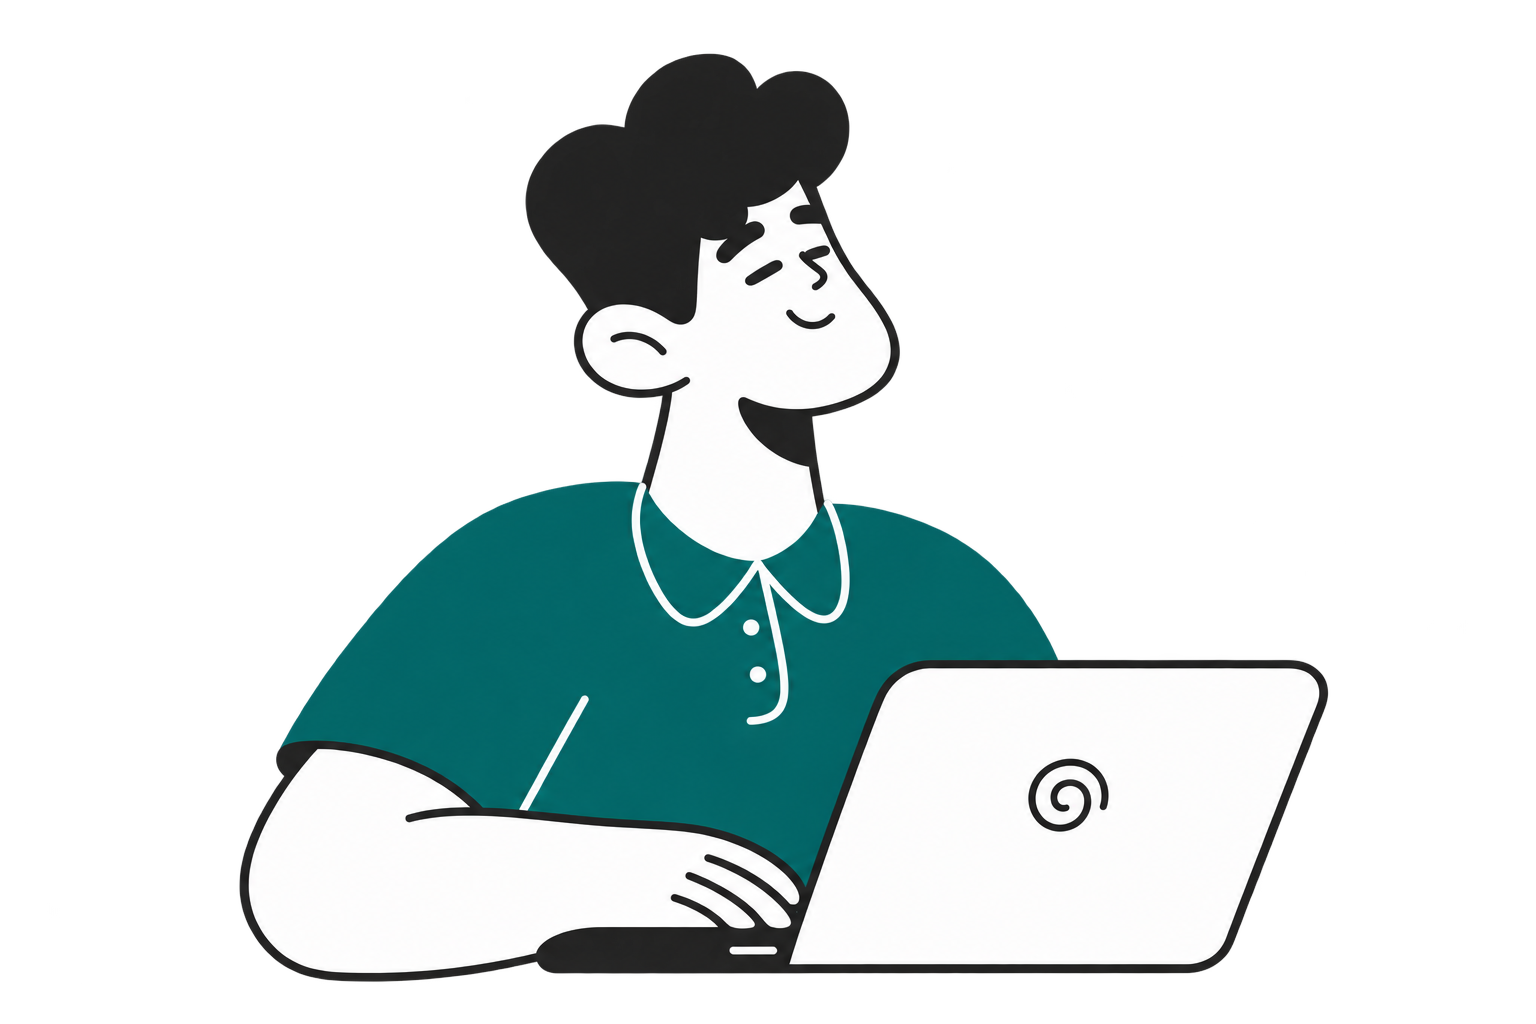
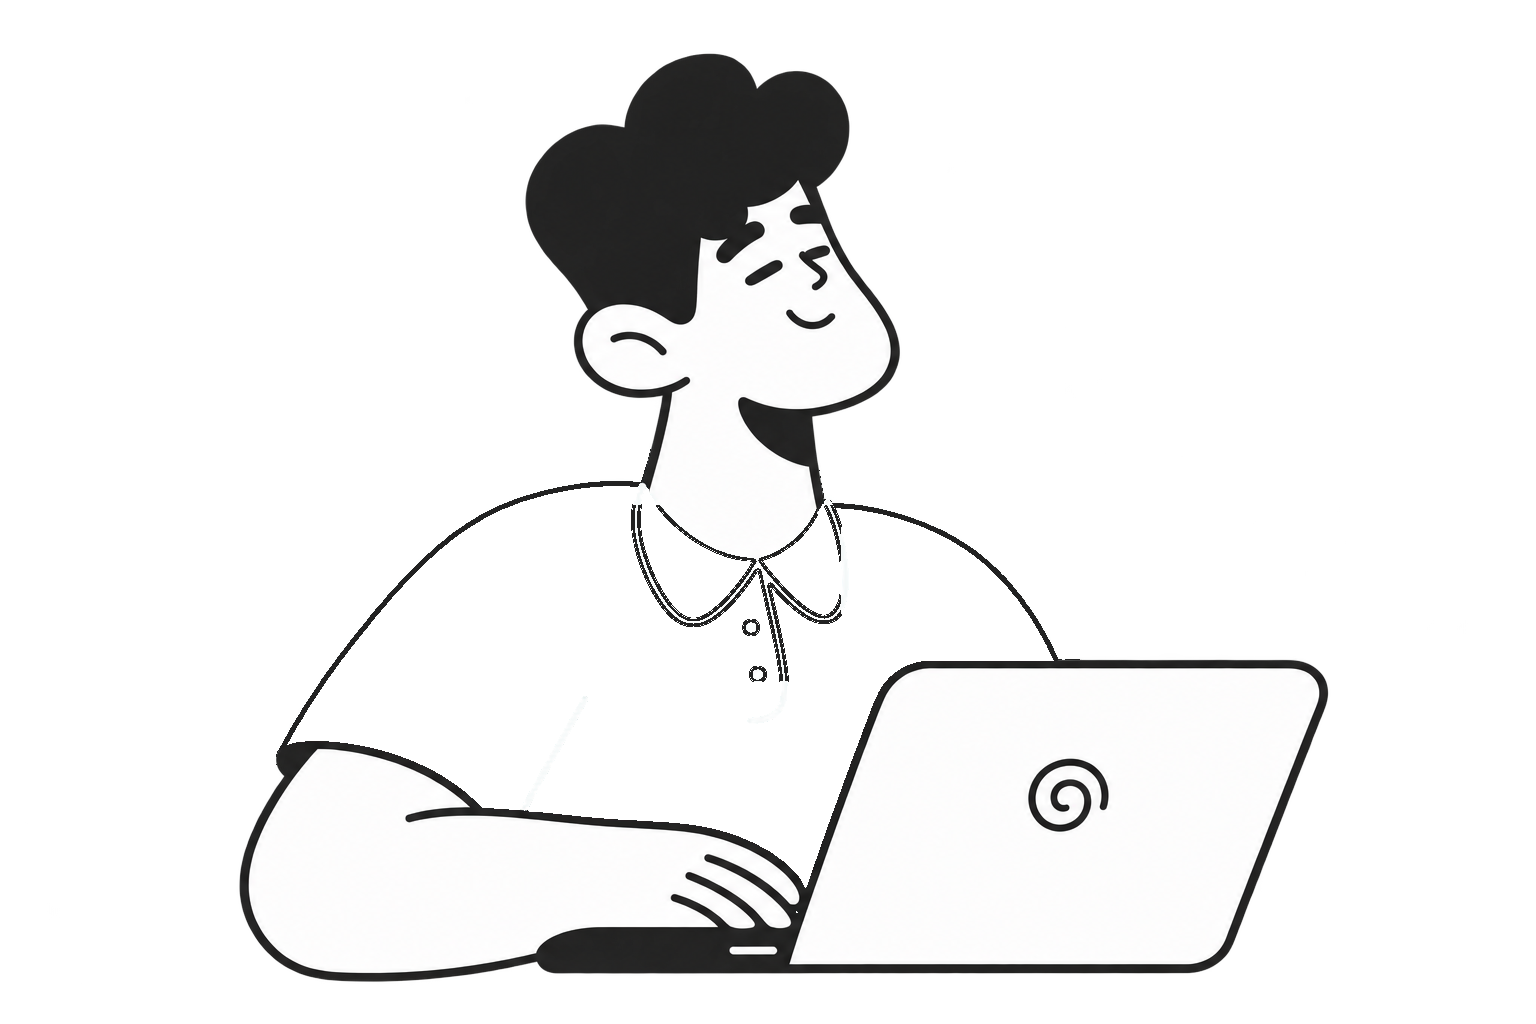
05

Changed region(s): [[0.1875, 0.4688, 0.6875, 0.875]]

diff --git a/app/entry-gate.css b/app/entry-gate.css
@@ -21,6 +21,7 @@ html[data-entry-gate], html[data-entry-gate] body { overflow: hidden; background
   background: #fff;
   color: var(--ink);
 }
+.entry-gate:focus { outline: none; }
 html[data-entry-gate] .entry-gate { display: flex; }
 
 .entry-gate-content {
@@ -75,6 +76,8 @@ html[data-entry-gate] .entry-gate { display: flex; }
   max-width: 390px;
   margin: 0 auto;
 }
+.entry-mobile-flow,
+.entry-skip-mobile { display: none; }
 .entry-choice {
   --choice-fill: var(--brand);
   --choice-ink: #fff;
@@ -107,20 +110,34 @@ html[data-entry-gate] .entry-gate { display: flex; }
 .entry-choice[data-preview] .entry-choice-arrow { transform: translate(3px, -2px); }
 .entry-choice-art { display: none; }
 .entry-skip {
-  display: flex;
+  display: inline-flex;
   align-items: center;
   justify-content: center;
+  gap: 8px;
   width: fit-content;
-  min-height: 44px;
-  margin: 16px auto 0;
-  padding-inline: 12px;
+  min-height: 48px;
+  margin: 24px auto 0;
+  padding: 11px 28px;
   border-radius: 999px;
-  color: #4c4772;
-  font-size: .925rem;
-  font-weight: 650;
-  text-underline-offset: 4px;
+  border: 1.5px solid #cbd5e1;
+  background: #f8fafc;
+  color: #1e293b;
+  font-family: var(--font-inter), Arial, sans-serif;
+  font-size: 1rem;
+  font-weight: 700;
+  text-decoration: none;
+  box-shadow: 0 2px 8px rgba(15, 23, 42, 0.05);
+  transition: all 180ms ease;
+  cursor: pointer;
 }
-.entry-skip:is(:hover, :focus-visible) { text-decoration: underline; }
+.entry-skip:hover {
+  background: #ffffff;
+  border-color: var(--brand);
+  color: var(--brand);
+  transform: translateY(-2px);
+  box-shadow: 0 4px 14px rgba(2, 47, 113, 0.12);
+  text-decoration: none;
+}
 
 .entry-illustrations {
   position: fixed;
@@ -131,6 +148,16 @@ html[data-entry-gate] .entry-gate { display: flex; }
   pointer-events: none;
   z-index: 0;
 }
+.entry-aura {
+  position: absolute;
+  top: 50%;
+  width: min(62vw, 1200px);
+  height: 145vh;
+  margin-top: -72.5vh;
+  border-radius: 50%;
+}
+.entry-aura--employer { left: -26vw; background: #e9eef9; }
+.entry-aura--candidate { right: -26vw; background: #e1f5f6; }
 .entry-illustration {
   position: absolute;
   max-height: 85vh;
@@ -144,7 +171,7 @@ html[data-entry-gate] .entry-gate { display: flex; }
 }
 .entry-illustration--candidate {
   right: clamp(0px, 2vw, 40px);
-  width: min(43vw, 690px, max(280px, calc((100vw - 560px) / 2)));
+  width: min(37vw, 560px, max(280px, calc((100vw - 640px) / 2)));
 }
 .entry-illustration img {
   display: block;
@@ -194,7 +221,7 @@ html[data-entry-gate] .entry-gate { display: flex; }
 .site-content[data-audience-animation="entrance"] [data-hero-reveal="description"] { animation-delay: 65ms; }
 .site-content[data-audience-animation="entrance"] [data-hero-reveal="actions"] { animation-delay: 130ms; }
 .site-content[data-audience-animation="entrance"] [data-hero-reveal="directory"] { animation-delay: 180ms; }
-.site-content[data-audience-animation="switch"] [data-audience-copy] {
+.site-content[data-audience-switch] [data-audience-copy] {
   animation: entry-hero-in 280ms cubic-bezier(.22, 1, .36, 1) both;
 }
 @keyframes entry-hero-in { from { opacity: .15; transform: translateY(11px); } to { opacity: 1; transform: translateY(0); } }
@@ -203,6 +230,167 @@ html[data-entry-gate] .entry-gate { display: flex; }
   .entry-choices { max-width: 380px; margin-inline: auto; }
   .entry-gate h2 { margin-bottom: 24px; }
   .entry-choice { min-height: 60px; }
+}
+@media (max-width: 767px) {
+  .entry-gate {
+    display: none;
+    padding: 0;
+    background: #fff;
+  }
+  html[data-entry-gate] .entry-gate { display: block; }
+  .entry-illustrations { display: none; }
+  .entry-gate-content {
+    display: flex;
+    flex-direction: column;
+    width: 100%;
+    min-height: 100dvh;
+    margin: 0;
+    padding: 25px 21px 17px;
+    overflow: auto;
+    border-radius: 0;
+    background: #fff;
+    text-align: left;
+  }
+  .entry-logo {
+    align-self: flex-start;
+    height: 37px;
+    margin: 0;
+  }
+  .entry-logo .logo-img { height: 37px; max-width: 133px; }
+  .entry-gate-content > h2,
+  .entry-choices { display: none; }
+  .entry-mobile-flow {
+    display: block;
+    width: 100%;
+    max-width: 360px;
+    margin: auto auto 0;
+  }
+  .entry-mobile-flow > h2 {
+    margin: 0 0 15px;
+    color: #082e70;
+    font-family: var(--font-sora), Arial, sans-serif;
+    font-size: clamp(1.45rem, 7vw, 1.75rem);
+    font-weight: 690;
+    line-height: 1.15;
+    letter-spacing: -.055em;
+  }
+  .entry-mobile-segments {
+    display: grid;
+    grid-template-columns: repeat(2, minmax(0, 1fr));
+    gap: 3px;
+    padding: 4px;
+    border-radius: 999px;
+    background: #eef2f8;
+  }
+  .entry-mobile-segments button {
+    min-height: 40px;
+    padding: 7px 8px;
+    border: 0;
+    border-radius: 999px;
+    color: #123c7f;
+    background: transparent;
+    font: 700 .88rem/1.2 var(--font-inter), Arial, sans-serif;
+  }
+  .entry-mobile-segments button[aria-pressed="true"] { color: #fff; background: #0c3679; }
+  .entry-mobile-detail {
+    display: grid;
+    grid-template-columns: 40px minmax(0, 1fr);
+    gap: 11px;
+    min-height: 154px;
+    margin-top: 18px;
+    padding: 18px;
+    border-radius: 23px;
+    color: #173c7b;
+    background: #e8eef9;
+  }
+  .entry-mobile-icon {
+    display: grid;
+    place-items: center;
+    width: 40px;
+    height: 40px;
+    border-radius: 12px;
+    color: #fff;
+    background: #0c3679;
+  }
+  .entry-mobile-detail h3 {
+    margin: 8px 0 8px;
+    font: 680 1rem/1.2 var(--font-sora), Arial, sans-serif;
+    letter-spacing: -.03em;
+  }
+  .entry-mobile-detail p {
+    grid-column: 1 / -1;
+    margin: 0;
+    color: #42608f;
+    white-space: pre-line;
+    font-size: .91rem;
+    line-height: 1.65;
+  }
+  .entry-mobile-continue {
+    width: 100%;
+    min-height: 53px;
+    margin-top: 16px;
+    padding: 10px 18px;
+    border: 0;
+    border-radius: 999px;
+    color: #fff;
+    background: #0c3679;
+    font: 700 .96rem/1.2 var(--font-inter), Arial, sans-serif;
+  }
+  .entry-skip {
+    position: absolute;
+    top: max(16px, env(safe-area-inset-top));
+    right: 18px;
+    margin: 0;
+    min-height: 44px;
+    padding: 8px 24px;
+    display: inline-flex;
+    align-items: center;
+    justify-content: center;
+    border-radius: 999px;
+    border: 1.5px solid #cbd5e1;
+    background: #f1f5f9;
+    color: #0f172a;
+    font-size: 0.95rem;
+    font-weight: 700;
+    text-decoration: none;
+    box-shadow: 0 2px 8px rgba(15, 23, 42, 0.08);
+    transition: all 180ms ease;
+    z-index: 10;
+  }
+  .entry-skip:hover,
+  .entry-skip:active {
+    background: #022f71;
+    border-color: #022f71;
+    color: #ffffff;
+    transform: scale(1.02);
+  }
+  .entry-skip-desktop { display: none; }
+  .entry-skip-mobile {
+    display: inline-flex;
+    align-items: center;
+    font-size: 0.95rem;
+    font-weight: 700;
+    text-decoration: none;
+  }
+  .entry-gate-content { position: relative; padding: max(20px, env(safe-area-inset-top)) 20px max(20px, env(safe-area-inset-bottom)); }
+  .entry-logo { height: 38px; }
+  .entry-mobile-flow { display: grid; grid-template-rows: repeat(2, minmax(190px, 1fr)); gap: 10px; flex: 1; max-width: 420px; margin: 16px auto 0; }
+  .entry-mobile-card { position: relative; isolation: isolate; overflow: hidden; display: flex; flex-direction: column; justify-content: space-between; width: 100%; padding: 18px; border: 0; border-radius: 24px; text-align: left; background: #103474; color: white; }
+  .entry-mobile-card--candidate { border: 1.5px solid #c2d9f5; background: linear-gradient(145deg, #ebf3fc 0%, #f0f6fe 60%, #e8f0fb 100%); color: #103474; }
+  .entry-mobile-card-icon { display: grid; place-items: center; width: 42px; height: 42px; border-radius: 13px; background: #31558f; }
+  .entry-mobile-card-art { position: absolute; z-index: -1; right: 4%; top: 8%; width: 78%; height: 72%; }
+  .entry-mobile-card-art img { width: 100%; height: 100%; object-fit: contain; object-position: center; }
+  .entry-mobile-card--employer .entry-mobile-card-art { width: 100%; height: 86%; right: 0; top: 0; }
+  .entry-mobile-card--candidate .entry-mobile-card-art { right: 5%; top: 3%; width: 78%; height: 65%; }
+  .entry-mobile-card--candidate .entry-mobile-card-icon { background: #12b7c7; }
+  .entry-mobile-card-bottom { display: flex; align-items: end; justify-content: space-between; gap: 12px; }
+  .entry-mobile-card-bottom strong { display: block; max-width: 9ch; font: 700 clamp(1.45rem, 6vw, 1.8rem)/1.12 var(--font-sora), sans-serif; letter-spacing: -.045em; }
+  .entry-mobile-card-bottom small { display: block; margin-top: 6px; font-size: .84rem; line-height: 1.35; color: #d2dff2; }
+  .entry-mobile-card--candidate small { color: #4a6585; }
+  .entry-mobile-card-arrow { display: grid; place-items: center; flex: none; width: 40px; height: 40px; border-radius: 50%; background: white; color: #103474; }
+  .entry-mobile-card--candidate .entry-mobile-card-arrow { background: #103474; color: white; }
+  .entry-mobile-card-art { transition: transform 350ms cubic-bezier(.22, 1, .36, 1); }
+  .entry-mobile-card:active .entry-mobile-card-art { transform: scale(1.04); }
 }
 @media (max-width: 767px) and (any-hover: hover) {
   .entry-illustrations { opacity: .27; }
@@ -219,6 +407,6 @@ html[data-entry-gate] .entry-gate { display: flex; }
   .entry-gate[data-rising] .entry-gate-content,
   .entry-gate[data-rising] .entry-illustrations { animation: entry-gate-fade 200ms linear both !important; }
   .site-content[data-audience-animation="entrance"] [data-hero-reveal],
-  .site-content[data-audience-animation="switch"] [data-audience-copy] { animation: none; }
+  .site-content[data-audience-switch] [data-audience-copy] { animation: none; }
 }
 

diff --git a/components/entry-gate/EntryGate.tsx b/components/entry-gate/EntryGate.tsx
@@ -2,10 +2,10 @@
 
 import { useEffect, useId, useRef, useState, type KeyboardEvent } from 'react';
 import { AnimatePresence, m, useReducedMotion } from 'framer-motion';
-import { ArrowUpRight } from 'lucide-react';
+import { ArrowUpRight, BriefcaseBusiness, UserRoundSearch } from 'lucide-react';
 import Image from 'next/image';
-import hiringImage from '@/assets/entry-gate/hiring.jpg';
-import jobSeekerImage from '@/assets/entry-gate/job-seeker.jpg';
+import hiringImage from '@/assets/entry-gate/hiring-white-shirt.png';
+import jobSeekerImage from '@/assets/entry-gate/job-seeker.png';
 import { audienceCopy, audienceModes, DEFAULT_AUDIENCE, entryCopy } from '@/data/audience';
 import type { Audience } from '@/data/site';
 import { useHoverCapable } from '@/hooks/useHoverCapable';
@@ -27,7 +27,7 @@ export function EntryGate({ active, rising, onChoose }:
   const [input, setInput] = useState<'pointer' | 'keyboard'>('keyboard');
 
   useEffect(() => {
-    if (active) dialog.current?.querySelector('button')?.focus({ preventScroll: true });
+    if (active) dialog.current?.focus({ preventScroll: true });
   }, [active]);
 
   const onKeyDown = (event: KeyboardEvent<HTMLDivElement>) => {
@@ -38,7 +38,7 @@ export function EntryGate({ active, rising, onChoose }:
     }
     if (event.key !== 'Tab') return;
     setInput('keyboard');
-    const controls = dialog.current?.querySelectorAll<HTMLElement>('button, a[href]');
+    const controls = Array.from(dialog.current?.querySelectorAll<HTMLElement>('button, a[href]') ?? []).filter(control => control.getClientRects().length);
     if (!controls?.length) return;
     const first = controls[0];
     const last = controls[controls.length - 1];
@@ -53,16 +53,25 @@ export function EntryGate({ active, rising, onChoose }:
 
   const mode = canHover ? (input === 'pointer' ? hovered : focused) : null;
 
-  return <div ref={dialog} className="entry-gate" role="dialog" aria-modal="true" aria-labelledby={title}
+  return <div ref={dialog} className="entry-gate" role="dialog" aria-modal="true" aria-label="Choose your path" tabIndex={-1}
     data-rising={rising || undefined} data-lenis-prevent onKeyDown={onKeyDown}>
     <div className="entry-illustrations" aria-hidden="true">
       <AnimatePresence>
         {mode && (
+          <m.div key={'aura-' + mode} className={'entry-aura entry-aura--' + mode}
+            initial={reduced ? { opacity: 0 } : { x: directions[mode], opacity: 0, scale: 0.8 }}
+            animate={reduced ? { opacity: 1 } : { x: 0, opacity: 1, scale: 1 }}
+            exit={reduced ? { opacity: 0 } : { x: directions[mode], opacity: 0, scale: 0.85 }}
+            transition={{ duration: reduced ? 0.15 : 0.7, ease: slideEase }} />
+        )}
+      </AnimatePresence>
+      <AnimatePresence>
+        {mode && (
           <m.div key={mode} className={'entry-illustration entry-illustration--' + mode}
-            initial={reduced ? { opacity: 0 } : { x: directions[mode], opacity: 0.6 }}
-            animate={reduced ? { opacity: 1 } : { x: 0, opacity: 1 }}
-            exit={reduced ? { opacity: 0 } : { x: directions[mode], opacity: 0 }}
-            transition={{ duration: reduced ? 0.2 : 0.55, ease: slideEase }}>
+            initial={reduced ? { opacity: 0 } : { x: directions[mode], opacity: 0, scale: 0.94 }}
+            animate={reduced ? { opacity: 1 } : { x: 0, opacity: 1, scale: 1 }}
+            exit={reduced ? { opacity: 0 } : { x: directions[mode], opacity: 0, scale: 0.94 }}
+            transition={{ duration: reduced ? 0.15 : 0.62, ease: slideEase }}>
             <Image src={illustrations[mode]} alt="" priority loading="eager"
               sizes="(min-width: 1440px) 720px, (min-width: 768px) 45vw, 300px" />
           </m.div>
@@ -97,8 +106,16 @@ export function EntryGate({ active, rising, onChoose }:
           </button>
         )}
       </div>
+        <section className="entry-mobile-flow" aria-label="Choose your path">
+          {audienceModes.map(choice => <button key={choice} type="button" className={'entry-mobile-card entry-mobile-card--' + choice} onClick={() => onChoose(choice)}>
+            <span className="entry-mobile-card-icon" aria-hidden="true">{choice === 'employer' ? <BriefcaseBusiness size={22} /> : <UserRoundSearch size={22} />}</span>
+            <span className="entry-mobile-card-art" aria-hidden="true"><Image src={illustrations[choice]} alt="" sizes="(max-width: 400px) 300px, 380px" /></span>
+            <span className="entry-mobile-card-bottom"><span><strong>{choice === 'employer' ? 'I’m hiring' : 'I’m looking for a job'}</strong><small>{choice === 'employer' ? 'Find vetted talent, faster' : 'Discover roles that fit you'}</small></span><span className="entry-mobile-card-arrow" aria-hidden="true"><ArrowUpRight size={21} /></span></span>
+          </button>)}
+        </section>
       <a href="#main-content" className="entry-skip" onClick={event => { event.preventDefault(); onChoose(DEFAULT_AUDIENCE); }}>
-        {entryCopy.skip}
+          <span className="entry-skip-desktop">{entryCopy.skip}</span>
+          <span className="entry-skip-mobile">Skip</span>
       </a>
     </div>
   </div>;

diff --git a/app/globals.css b/app/globals.css
@@ -209,7 +209,7 @@ button:disabled { cursor: default; }
   line-height: 1;
   white-space: nowrap;
   cursor: pointer;
-  transition: color 180ms ease;
+  transition: color 0ms;
   user-select: none;
 }
 .audience-switcher-btn:hover {
@@ -217,6 +217,9 @@ button:disabled { cursor: default; }
 }
 .audience-switcher-btn.is-active {
   color: #fff;
+  /* The pill slides in over ~170ms: keep the label dark until it is nearly under the
+     pill, then flip it to white so it never sits white on the light track. */
+  transition: color 60ms ease 120ms;
 }
 .audience-switcher-indicator {
   position: absolute;
@@ -439,6 +442,9 @@ html[data-audience="candidate"] .pill {
 .audience-employer :focus-visible { outline-color: var(--accent); }
 
 .process-panel { background: #f7fafc; }
+/* The stats panel is shown as soon as it is on screen: it never fades or slides in on scroll. */
+.recruitment-stats,
+.audience-section:has(.recruitment-stats) [data-reveal] { opacity: 1 !important; transform: none !important; animation: none !important; }
 .recruitment-stats dl, .candidate-testimonials ul { display: grid; gap: 12px; margin: 22px 0 0; padding: 0; }
 .recruitment-stats dl { grid-template-columns: repeat(4, minmax(0, 1fr)); }
 .recruitment-stats dl div, .candidate-testimonials li { padding: clamp(14px, 2vw, 25px); border: 1px solid #c0d5e8; border-radius: var(--card-radius); background: #f7fafc; }

diff --git a/context/AudienceProvider.tsx b/context/AudienceProvider.tsx
@@ -105,8 +105,12 @@ export function AudienceProvider({ children }: { children: ReactNode }) {
   }, [phase]);
 
   return <AudienceContext.Provider value={{ mode, setMode }}>
+    {/* Entrance and switch are separate flags: folding them into one attribute made the
+        navbar and hero entrance rules unmatch on the first switch, which restarted their
+        animations and flashed the whole navbar away. */}
     <div className="site-content" inert={locked} data-entry-rising={rising || undefined}
-      data-audience-animation={switched ? 'switch' : phase === 'entered' ? 'entrance' : undefined}
+      data-audience-animation={phase === 'entered' ? 'entrance' : undefined}
+      data-audience-switch={switched ? 'on' : undefined}
       onAnimationEnd={onSiteAnimationEnd}>
       {children}
     </div>
